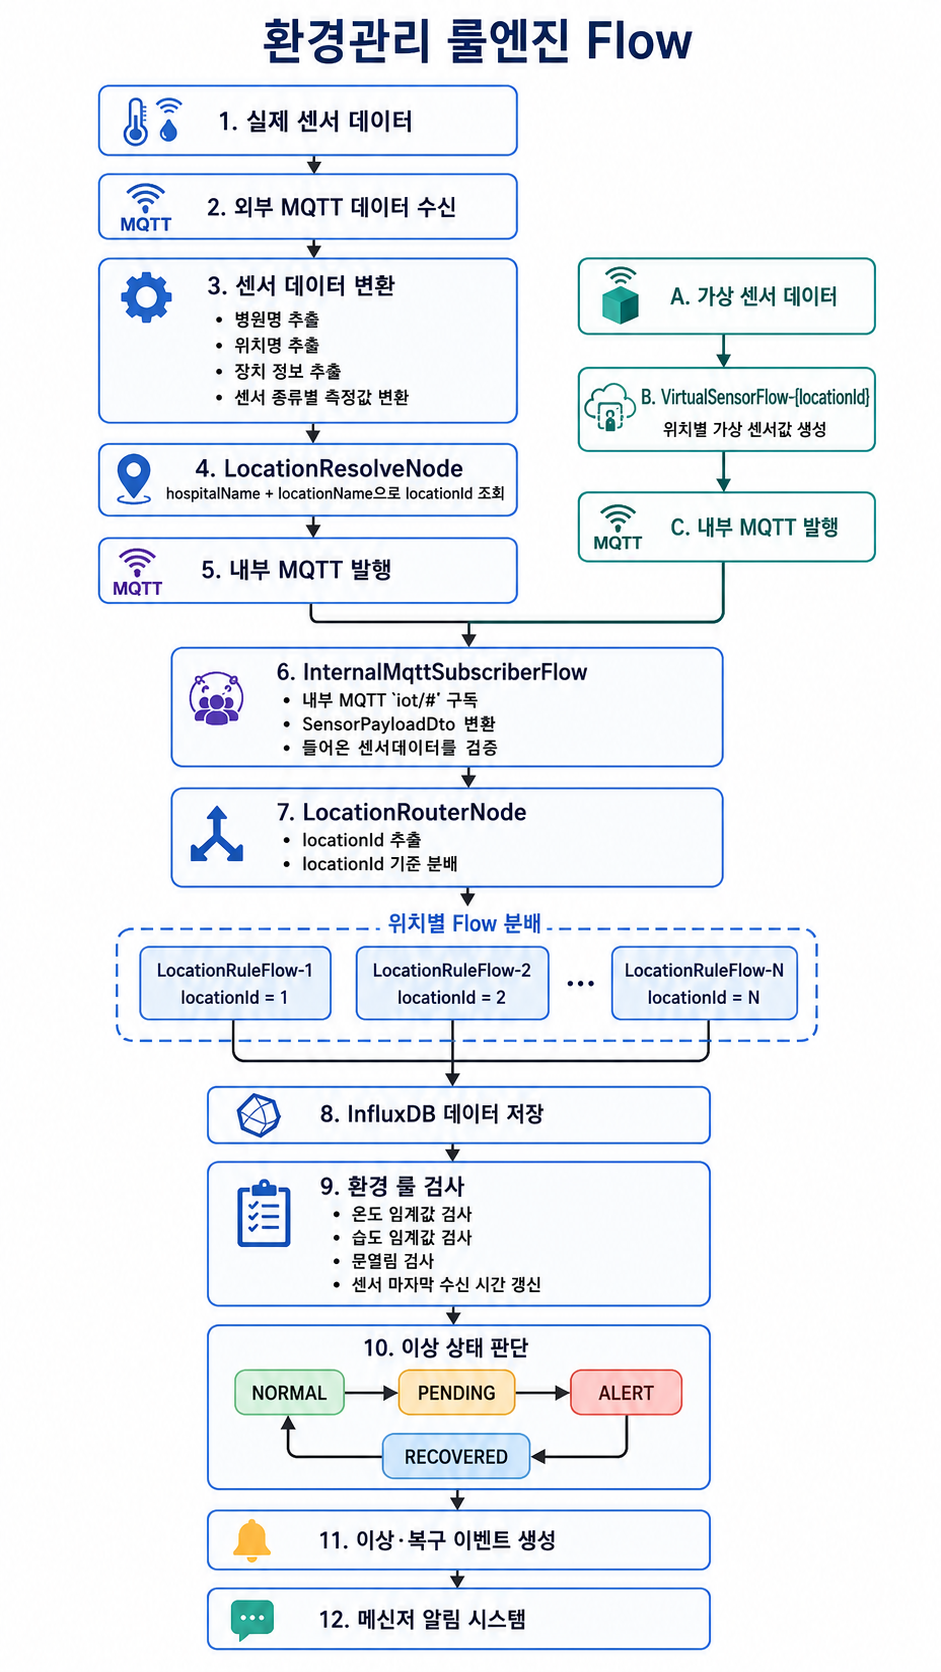
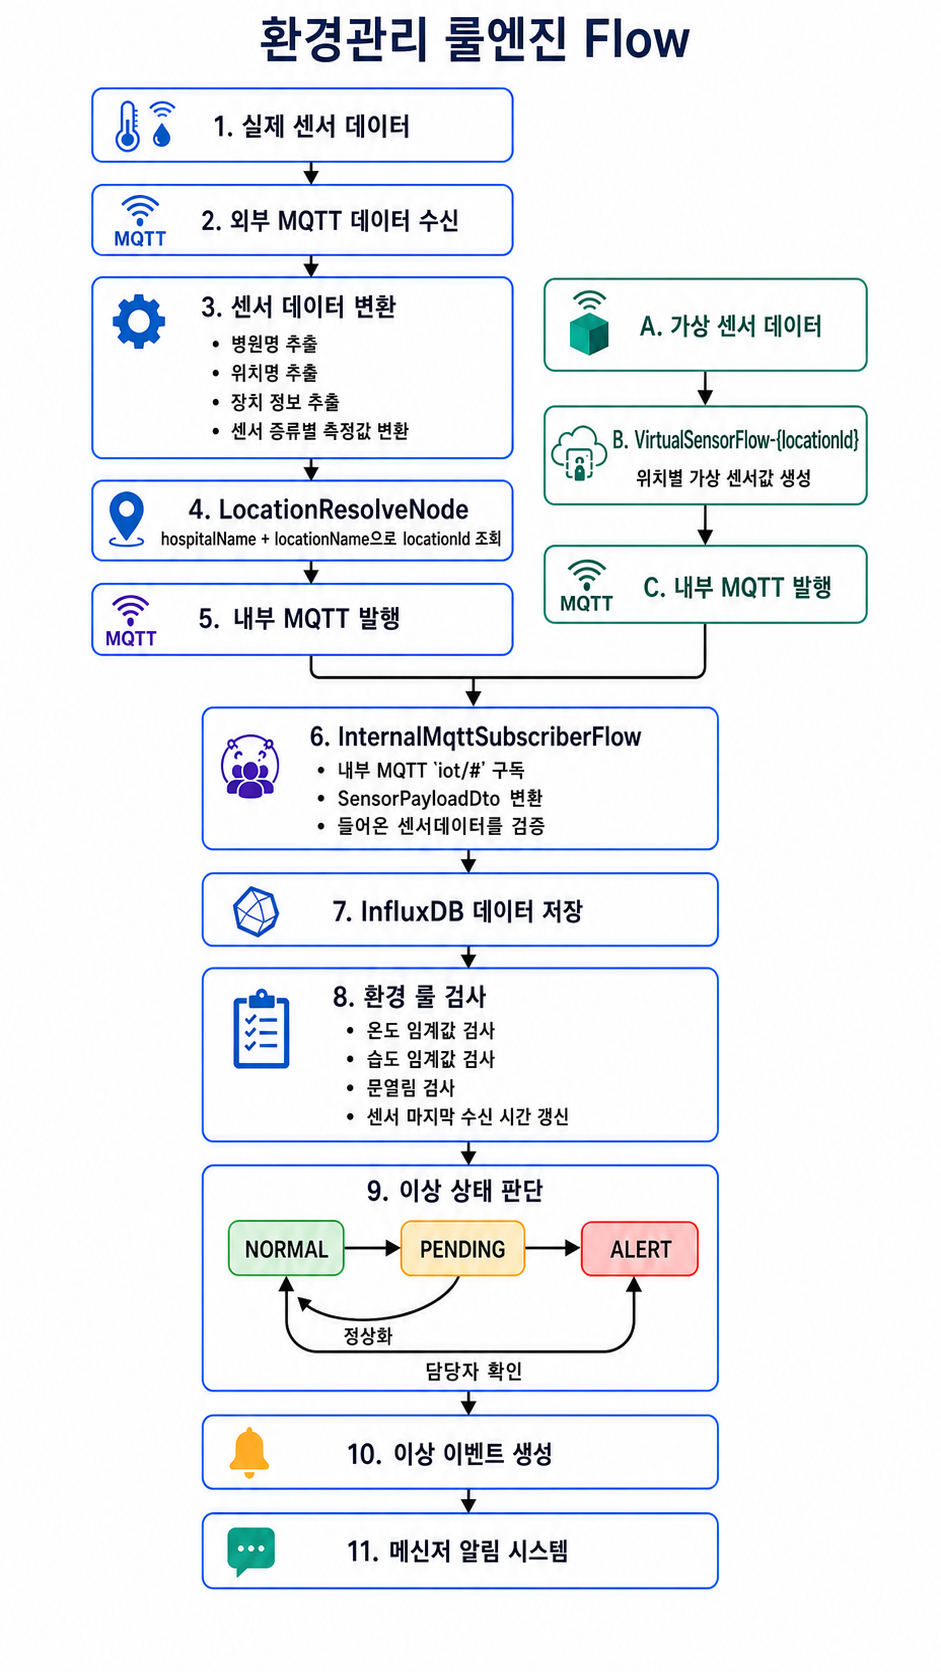
docs: 환경관리 Flow 수정

Changed region(s): [[0.0925, 0.0, 0.9554, 0.9952]]

diff --git a/기능 명세/4.환경관리/0.환경관리 전체 흐름.md b/기능 명세/4.환경관리/0.환경관리 전체 흐름.md
@@ -2,17 +2,7 @@
 
 ## 기능 구성
 
-```mermaid
-flowchart LR
-    A["외부 MQTT"] --> B["센서 데이터 수집·표준화 Subflow"]
-    V["가상 센서 Flow"] --> M["내부 MQTT"]
-    B --> M
-    subgraph F["공통 EnvironmentProcessingFlow · 시스템 전체 1개"]
-        S["구독"] --> C["검증"] --> D["InfluxDB 저장"] --> R["임계값·지속 시간 판단"] --> N["알림"]
-    end
-    M --> S
-    N --> X["메신저 알림 시스템"]
-```
+저
 
 | 구분 | 책임 |
 | --- | --- |
